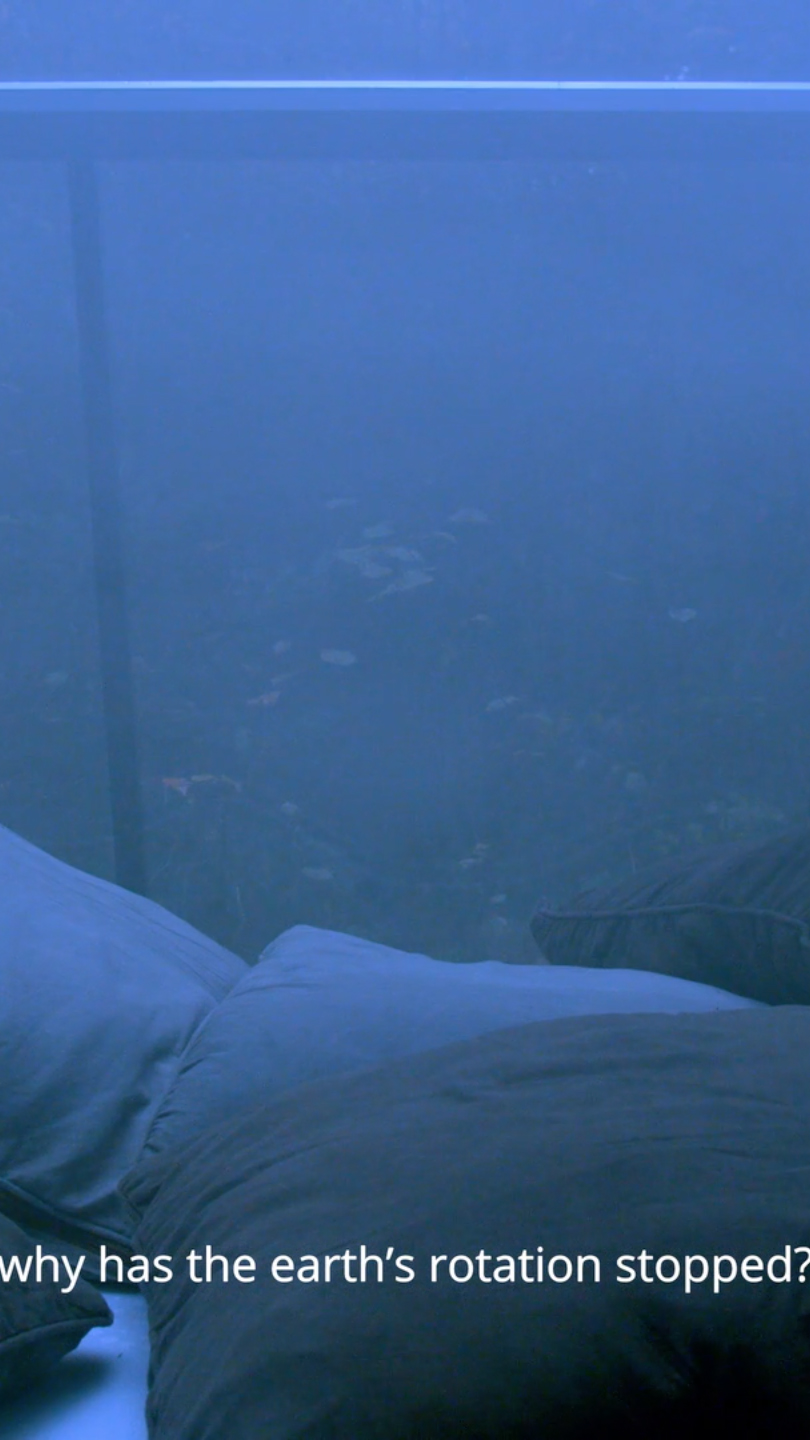
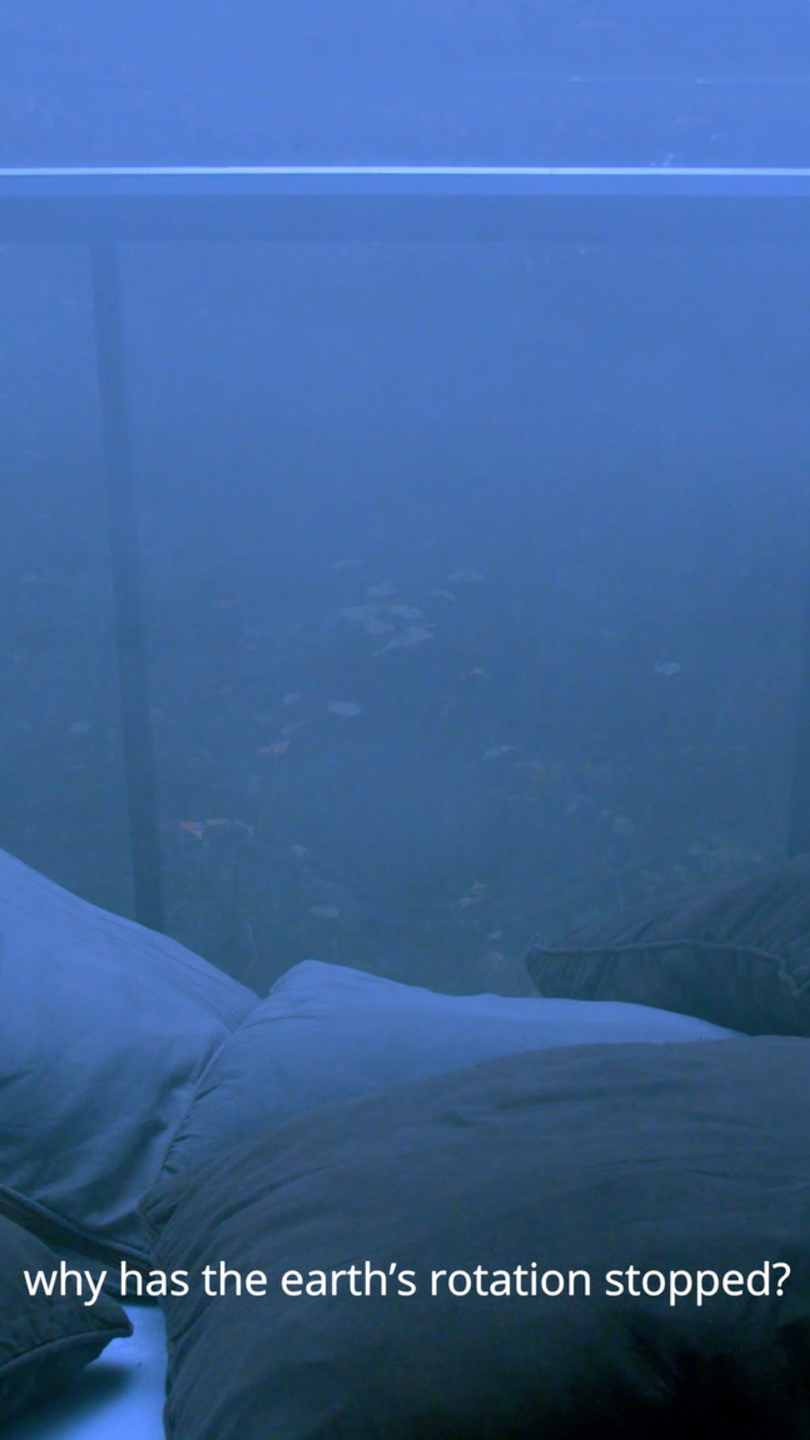
corrections

diff --git a/index.html b/index.html
@@ -17,14 +17,16 @@
 /* For devices smaller than 1000px: */
 body {
   background-image: url('index_solaire_still_phoneratio.jpg');
-  background-size: 720px 1280px;
+  background-repeat: no-repeat;
+  background-size: contain;
 }
 
 /* For devices 1000px and larger: */
 @media only screen and (min-device-width: 720px) {
   body {
     background-image: url('index_solaire_still.jpg');
-    background-size: 1280px 720px;
+    background-repeat: no-repeat;
+    background-size: contain;
   }
 }
 </style>
